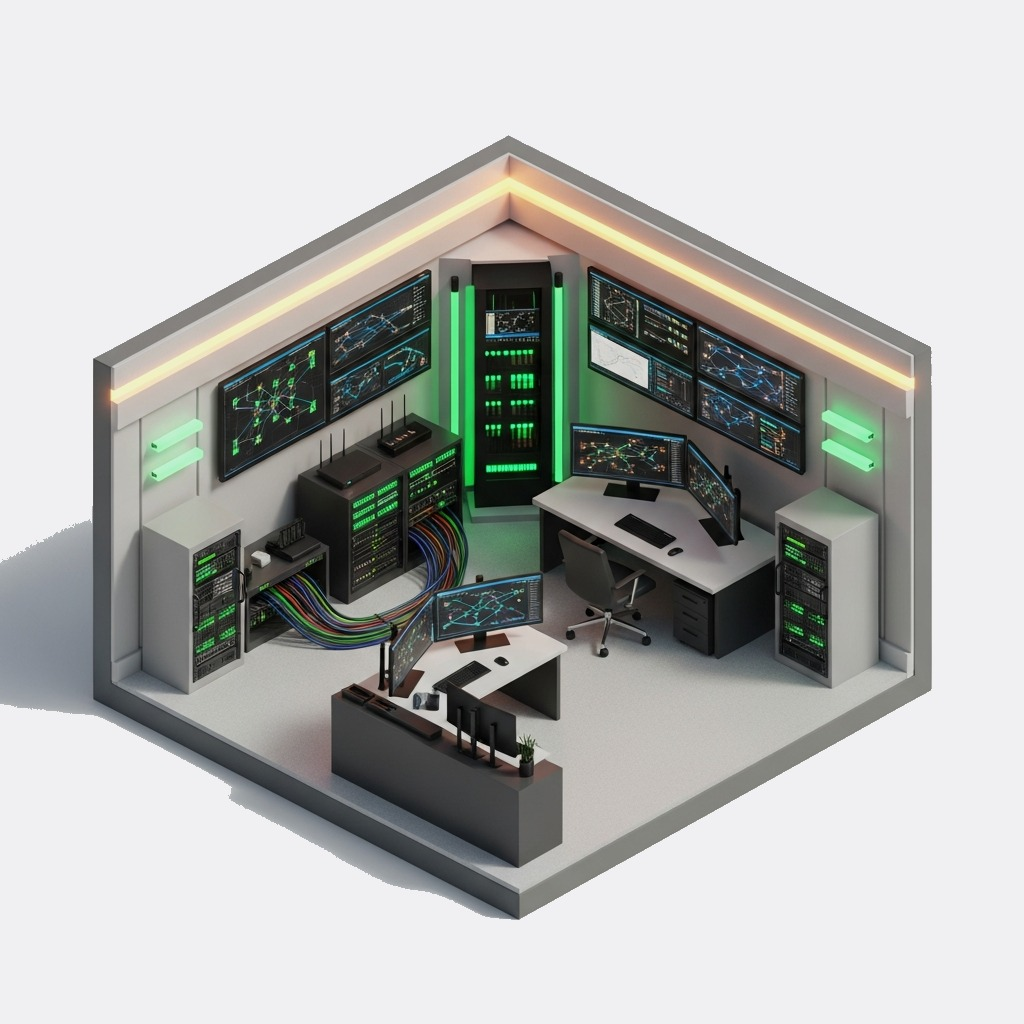
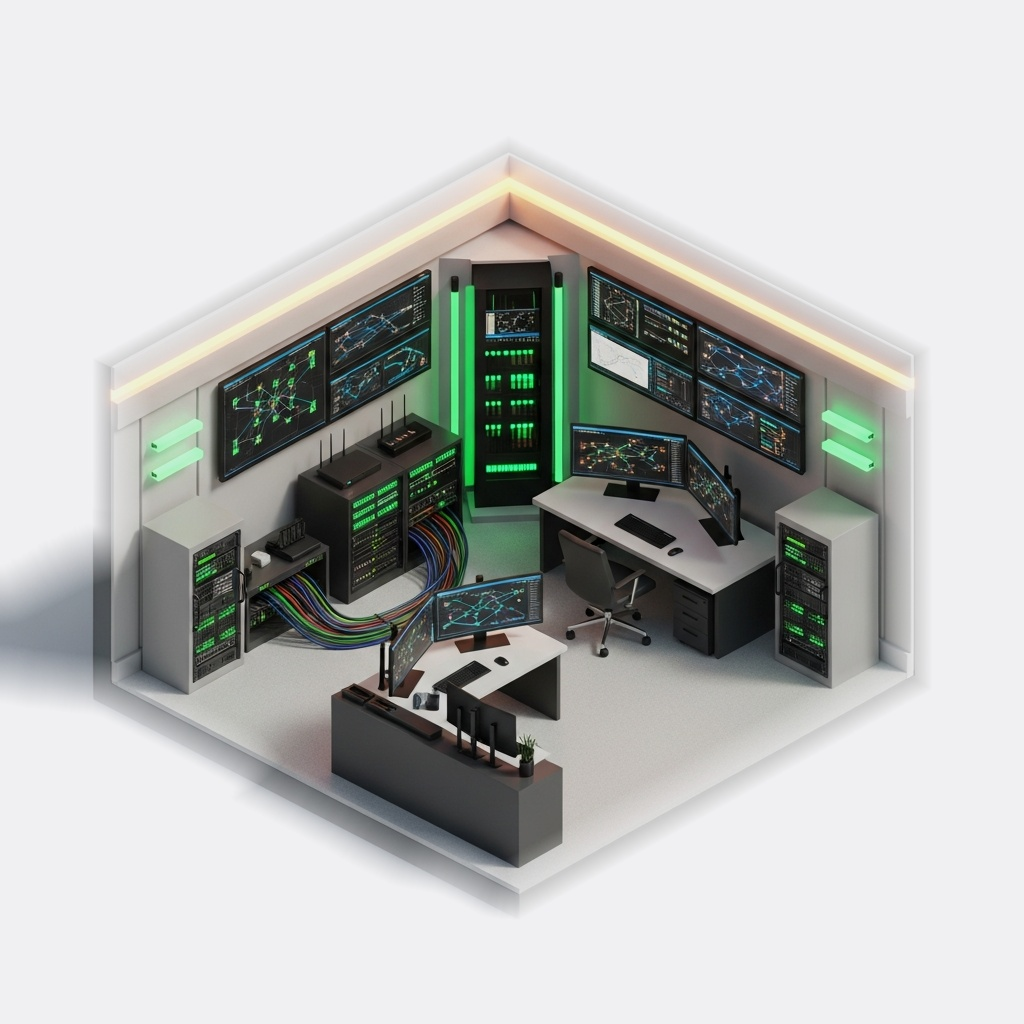
auto-commit for 9962483c-ed9e-4ba9-b590-57e2dd8a6828

Changed region(s): [[0.0, 0.125, 0.9375, 0.9062]]

diff --git a/frontend/src/components/workspace/WorkspaceCanvas.js b/frontend/src/components/workspace/WorkspaceCanvas.js
@@ -8,7 +8,23 @@ export const WorkspaceCanvas = ({ children, className, backgroundImage }) => {
       data-testid="workspace-canvas"
       className={cn('relative w-full h-full overflow-hidden bg-[#F0F0F2]', className)}
     >
-      {/* Layer 1: Subtle pattern */}
+      {/* Layer 1: Background image with center-only mask */}
+      {bgUrl && (
+        <div className="absolute inset-0 pointer-events-none flex items-center justify-center overflow-hidden">
+          <img
+            src={bgUrl}
+            alt=""
+            className="max-w-[70%] max-h-[80%] object-contain opacity-[0.30] select-none"
+            draggable={false}
+            style={{
+              WebkitMaskImage: 'radial-gradient(ellipse 48% 48% at center, black 40%, transparent 100%)',
+              maskImage: 'radial-gradient(ellipse 48% 48% at center, black 40%, transparent 100%)',
+            }}
+          />
+        </div>
+      )}
+
+      {/* Layer 2: Subtle dot pattern (on top of room so texture is uniform everywhere) */}
       <div
         className="absolute inset-0 opacity-[0.03] pointer-events-none"
         style={{
@@ -18,19 +34,7 @@ export const WorkspaceCanvas = ({ children, className, backgroundImage }) => {
         }}
       />
 
-      {/* Layer 2: Background image (clean transparent room) */}
-      {bgUrl && (
-        <div className="absolute inset-0 pointer-events-none flex items-center justify-center overflow-hidden">
-          <img
-            src={bgUrl}
-            alt=""
-            className="max-w-[65%] max-h-[75%] object-contain opacity-[0.18] select-none"
-            draggable={false}
-          />
-        </div>
-      )}
-
-      {/* Layer 4: Interactive content (panels) */}
+      {/* Layer 3: Interactive content (panels) */}
       <div className="absolute inset-0 z-10">{children}</div>
     </div>
   );

diff --git a/frontend/src/components/MainSiteDashboardLayout.js b/frontend/src/components/MainSiteDashboardLayout.js
@@ -52,12 +52,12 @@ const API = `${process.env.REACT_APP_BACKEND_URL}/api`;
 
 /* Site-type background images (same as CreateMainSiteWizard) */
 const SITE_TYPE_BACKGROUNDS = {
-  radio: '/images/env_radio.png',
-  server: '/images/env_server.png',
-  external_host: '/images/env_external_host.png',
-  task_scheduler: '/images/env_task_scheduler.png',
-  technical: '/images/env_technical.png',
-  wp_security: '/images/env_wp_security.png',
+  radio: '/images/env_radio.jpg',
+  server: '/images/env_server.jpg',
+  external_host: '/images/env_external_host.jpg',
+  task_scheduler: '/images/env_task_scheduler.jpg',
+  technical: '/images/env_technical.jpg',
+  wp_security: '/images/env_wp_security.jpg',
 };
 
 const roleIcons = {
